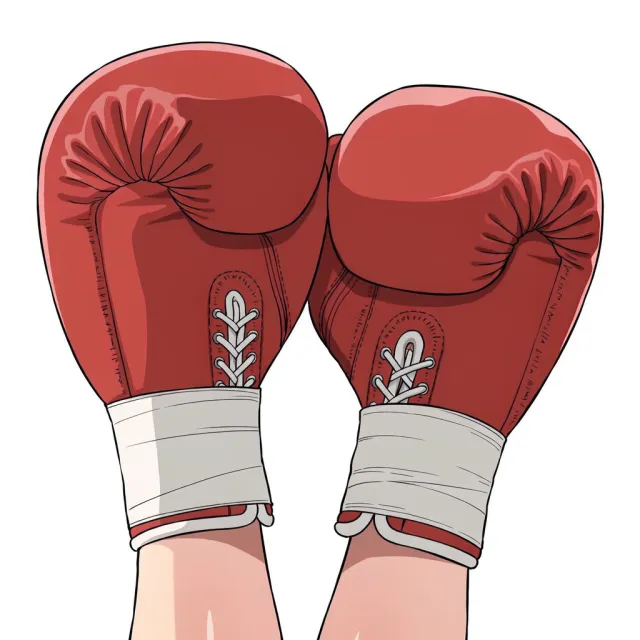
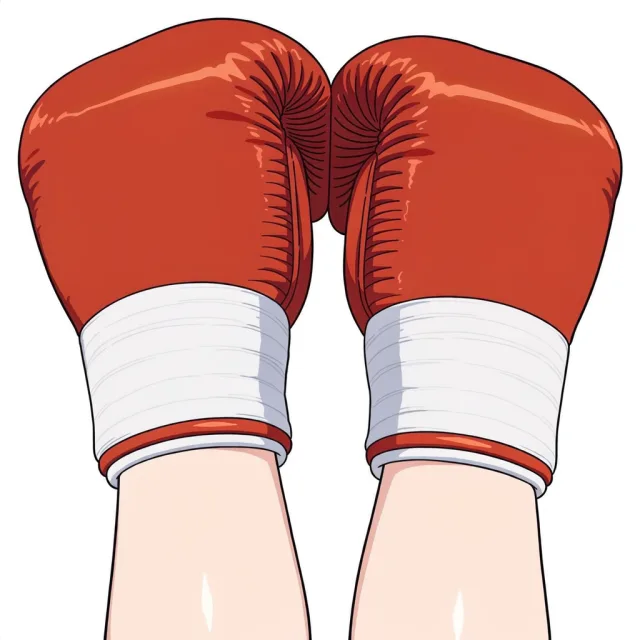
Bentuk sarung tinju jadi pilihan, dan bawaannya bentuk latihan
Danbooru tidak punya tag untuk bentuk sarung tinju sama sekali — sudah
dicari di seluruh kamus. Yang ada cuma boxing_gloves (4.581 gambar); tidak
ada velcro, tidak ada lace-up, tidak ada strap. Jadi bentuknya dibedakan
dengan kata biasa, mengikuti preseden yang memang sudah ada di tabel tag:
masterpiece dan dramatic_lighting juga bukan tag booru.

Bawaannya diubah jadi bentuk latihan — bulat, gempal, manset velcro lebar.
Itu yang paling sering terlihat di sasana dan di atas ring amatir, dan tema
pakaian mana pun yang memanggil boxing-gloves ikut mendapatkannya tanpa
harus memilih apa-apa.

Enam bentuk baru: latihan, bertali, tanding, manset panjang, kulit klasik,
mengilap, kebesaran.

DUA YANG DICOBA DAN TIDAK BERHASIL

"Sarung kantong" (busa tipis untuk samsak) DIBUANG, bukan diperbaiki.
Kata karangannya kalah telak oleh boxing_gloves sendiri: empat ribu gambar
sarung gempal di data latihnya menang atas frasa yang tidak pernah dilihat
model, dan kartunya keluar sama persis dengan sarung latihan. Modul yang
menjanjikan bentuk yang tidak bisa ia hasilkan lebih buruk daripada tidak
ada.

"Manset panjang" percobaan pertama juga gagal — mansetnya tidak memanjang
dan lengannya cacat. Yang menyelamatkannya bukan kata yang lebih keras,
melainkan tag NYATA: elbow_gloves, 404 ribu gambar. Pelajarannya sama
dengan yang sudah tertulis di proyek ini — tag yang jarang kalah oleh tag
yang sering, dan kata karangan kalah oleh keduanya.
[…]

diff --git a/database/data/outfits.php b/database/data/outfits.php
@@ -109,8 +109,52 @@ return [
 // =====================================================================
 // SLOT: TANGAN
 // =====================================================================
+// BENTUK SARUNG TINJU TIDAK PUNYA TAG DI DANBOORU.
+//
+// Yang ada cuma `boxing_gloves` (4.581 gambar). Tidak ada velcro, tidak ada
+// lace-up, tidak ada strap — sudah dicari di seluruh kamus. Jadi bentuknya
+// dibedakan dengan kata biasa, sama seperti `masterpiece` dan
+// `dramatic_lighting` yang juga bukan tag booru tapi dimengerti modelnya.
+//
+// Sengaja cuma dua kata pembeda per bentuk. Menumpuk lima akan melawan
+// `boxing_gloves` sendiri, dan yang menang di prompt padat itu tag yang
+// paling sering muncul di data latihnya — bukan yang paling banyak.
 'outfit_hand' => [
-    ['slug' => 'boxing-gloves',  'name' => 'Boxing Gloves',   'name_id' => 'Sarung tinju',   'tags' => ['boxing_gloves' => 1.2]],
+    // Bawaannya sengaja bentuk latihan: bulat, gempal, manset velcro lebar.
+    // Itu yang paling sering terlihat di sasana dan di atas ring amatir,
+    // dan tema pakaian mana pun yang memanggil 'boxing-gloves' ikut
+    // mendapatkannya tanpa harus memilih apa-apa.
+    ['slug' => 'boxing-gloves',  'name' => 'Boxing Gloves',   'name_id' => 'Sarung tinju',   'tags' => ['boxing_gloves' => 1.2, 'puffy_rounded_gloves', 'wide_velcro_wrist_strap']],
+
+    ['category' => 'sarung', 'slug' => 'sarung-latihan',  'name' => 'Sparring Gloves',   'name_id' => 'Sarung latihan',
+     'description' => 'Besar dan bulat, manset velcro lebar. Yang dipakai sehari-hari di sasana.',
+     'tags' => ['boxing_gloves' => 1.2, 'puffy_rounded_sparring_gloves', 'wide_velcro_wrist_strap']],
+
+    ['category' => 'sarung', 'slug' => 'sarung-bertali',  'name' => 'Lace-up Gloves',    'name_id' => 'Sarung bertali',
+     'description' => 'Pergelangan diikat tali — sarung pertandingan resmi.',
+     'tags' => ['boxing_gloves' => 1.2, 'lace-up_boxing_gloves', 'laced_wrist_cuff']],
+
+    ['category' => 'sarung', 'slug' => 'sarung-tanding',  'name' => 'Competition Gloves', 'name_id' => 'Sarung tanding',
+     'description' => 'Lebih kecil dan padat daripada sarung latihan.',
+     'tags' => ['boxing_gloves' => 1.2, 'compact_competition_gloves', 'laced_wrist_cuff']],
+
+    ['category' => 'sarung', 'slug' => 'sarung-manset-panjang', 'name' => 'Long Cuff Gloves', 'name_id' => 'Sarung manset panjang',
+     'description' => 'Manset menutup separuh lengan bawah, kepalannya lebih ramping.',
+     'tags' => ['boxing_gloves' => 1.2, 'elbow_gloves', 'long_cuff_boxing_gloves']],
+
+
+    ['category' => 'sarung', 'slug' => 'sarung-kulit-klasik', 'name' => 'Vintage Leather Gloves', 'name_id' => 'Sarung kulit klasik',
+     'description' => 'Kulit cokelat usang, kecil, bertali. Gaya tinju lama.',
+     'tags' => ['boxing_gloves', 'vintage_leather_boxing_gloves', 'worn_brown_leather']],
+
+    ['category' => 'sarung', 'slug' => 'sarung-mengilap', 'name' => 'Glossy Gloves',     'name_id' => 'Sarung mengilap',
+     'description' => 'Sintetis licin yang memantulkan lampu ring.',
+     'tags' => ['boxing_gloves' => 1.2, 'glossy_boxing_gloves', 'shiny_synthetic_leather']],
+
+    ['category' => 'sarung', 'slug' => 'sarung-besar',    'name' => 'Oversized Gloves',  'name_id' => 'Sarung kebesaran',
+     'description' => 'Sengaja dilebihkan — bulat besar seperti bantal.',
+     'tags' => ['boxing_gloves' => 1.3, 'oversized_puffy_gloves', 'huge_rounded_mitts']],
+
     ['slug' => 'hand-wraps',     'name' => 'Hand Wraps',      'name_id' => 'Perban tangan',  'tags' => ['hand_wraps']],
     ['slug' => 'bandaged-hand',  'name' => 'Bandaged Hand',   'name_id' => 'Tangan diperban','tags' => ['bandaged_hand']],
     ['slug' => 'fingerless',     'name' => 'Fingerless Gloves','name_id'=> 'Sarung jari terbuka','tags' => ['fingerless_gloves']],
